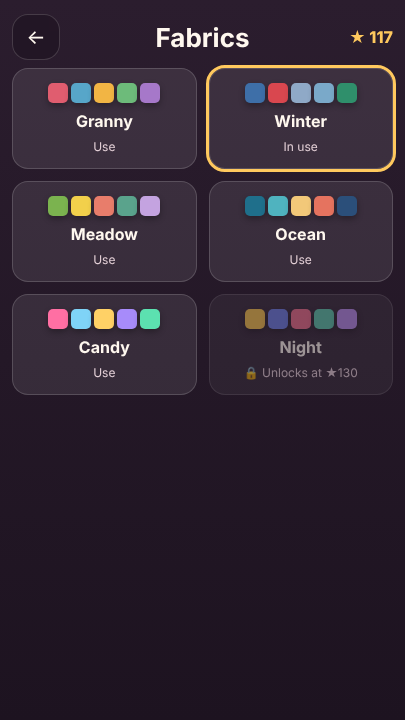
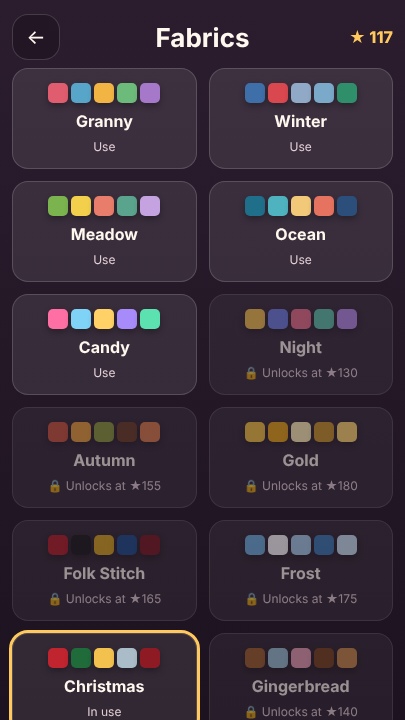
Cozy Quilt v1.3: materiale de sărbători Crăciun (100★) și Turtă dulce (140★) + Noutăți, teste v13
Claude-Session: https://claude.ai/code/session_01YQDvpnjDbHYKiAcLdt87yp

diff --git a/quilt/index.html b/quilt/index.html
@@ -114,14 +114,14 @@ h2{margin:0 0 12px;text-align:center;font-size:26px}
 
 <script>
 'use strict';
-const VERSION = '1.2';
+const VERSION = '1.3';
 // ---------- texte ----------
 const TX = {
-  ro: { sub: 'Coase pilote din petice: trage, rotește și întoarce bucățile de material până umplu tot modelul.', play: 'Joacă', cont: 'Continuă', daily: 'Pilota zilei', levels: 'Nivele', fabrics: 'Materiale', settings: 'Setări', sound: 'Sunete', music: 'Muzică', vibe: 'Vibrații', lang: 'Limba', keys: 'Tastatură', reset: 'Șterge progresul', on: 'Pornit', off: 'Oprit', erase: 'Șterge', sure: 'Apasă din nou ca să ștergi', rot: 'Rotește', flip: 'Întoarce', hint: 'Indiciu', level: 'Pilota', dailyT: 'Pilota zilei', w: ['Petice mici', 'Răsucite', 'Nasturi și forme', 'Oglinzi'], wsub: ['trage peticele la locul lor', 'atinge ca să rotești', 'modele cu nasturi cusuți', 'întoarce peticele pe dos'], done: 'Pilotă gata!', next: 'Următoarea', again: 'Din nou', stars: 'stele', hintsLeft: 'indicii', noHints: 'Nu mai ai indicii — termină o pilotă nouă ca să primești unul.', gotHint: '+1 indiciu', dailyDone: 'Pilota zilei e gata! Serie: ', streak: 'Serie', unlock: 'Se deblochează la', use: 'Folosește', used: 'Folosit', newFab: 'Material nou: ', locked: 'Termină pilota anterioară', timeT: 'Timp', best: 'Record', gift: 'Cadou zilnic: +2 indicii', news: 'Nou în v' + VERSION + ': 2 seturi noi de materiale, Ie (165★) și Ger (175★).',
+  ro: { sub: 'Coase pilote din petice: trage, rotește și întoarce bucățile de material până umplu tot modelul.', play: 'Joacă', cont: 'Continuă', daily: 'Pilota zilei', levels: 'Nivele', fabrics: 'Materiale', settings: 'Setări', sound: 'Sunete', music: 'Muzică', vibe: 'Vibrații', lang: 'Limba', keys: 'Tastatură', reset: 'Șterge progresul', on: 'Pornit', off: 'Oprit', erase: 'Șterge', sure: 'Apasă din nou ca să ștergi', rot: 'Rotește', flip: 'Întoarce', hint: 'Indiciu', level: 'Pilota', dailyT: 'Pilota zilei', w: ['Petice mici', 'Răsucite', 'Nasturi și forme', 'Oglinzi'], wsub: ['trage peticele la locul lor', 'atinge ca să rotești', 'modele cu nasturi cusuți', 'întoarce peticele pe dos'], done: 'Pilotă gata!', next: 'Următoarea', again: 'Din nou', stars: 'stele', hintsLeft: 'indicii', noHints: 'Nu mai ai indicii — termină o pilotă nouă ca să primești unul.', gotHint: '+1 indiciu', dailyDone: 'Pilota zilei e gata! Serie: ', streak: 'Serie', unlock: 'Se deblochează la', use: 'Folosește', used: 'Folosit', newFab: 'Material nou: ', locked: 'Termină pilota anterioară', timeT: 'Timp', best: 'Record', gift: 'Cadou zilnic: +2 indicii', news: 'Nou în v' + VERSION + ': 2 materiale de sărbători, Crăciun (100★) și Turtă dulce (140★).',
     tips: { drag: 'Trage un petic din coș pe pilotă. Umple toate pătratele!', hint: 'Blocat? 💡 Indiciul așază un petic la locul lui (pierzi o stea).', rotate: 'Atinge un petic ca să-l rotești (sau butonul ↻).', button: 'Pe nasturi nu se coase — ocolește-i!', flip: 'Unele petice sunt pe dos: ⇋ le întoarce în oglindă.' } },
-  en: { sub: 'Sew cozy quilts from patches: drag, turn and flip the fabric pieces until the whole pattern is filled.', play: 'Play', cont: 'Continue', daily: 'Daily Quilt', levels: 'Levels', fabrics: 'Fabrics', settings: 'Settings', sound: 'Sounds', music: 'Music', vibe: 'Vibration', lang: 'Language', keys: 'Keyboard', reset: 'Reset progress', on: 'On', off: 'Off', erase: 'Reset', sure: 'Tap again to erase', rot: 'Rotate', flip: 'Flip', hint: 'Hint', level: 'Quilt', dailyT: 'Daily Quilt', w: ['Little Patches', 'Twists', 'Buttons & Shapes', 'Mirrors'], wsub: ['drag patches into place', 'tap to rotate', 'patterns with sewn buttons', 'flip patches over'], done: 'Quilt done!', next: 'Next', again: 'Again', stars: 'stars', hintsLeft: 'hints', noHints: 'No hints left — finish a new quilt to earn one.', gotHint: '+1 hint', dailyDone: 'Daily Quilt done! Streak: ', streak: 'Streak', unlock: 'Unlocks at', use: 'Use', used: 'In use', newFab: 'New fabric: ', locked: 'Finish the previous quilt', timeT: 'Time', best: 'Best', gift: 'Daily gift: +2 hints', news: 'New in v' + VERSION + ': 2 new fabric sets, Folk Stitch (165★) and Frost (175★).',
+  en: { sub: 'Sew cozy quilts from patches: drag, turn and flip the fabric pieces until the whole pattern is filled.', play: 'Play', cont: 'Continue', daily: 'Daily Quilt', levels: 'Levels', fabrics: 'Fabrics', settings: 'Settings', sound: 'Sounds', music: 'Music', vibe: 'Vibration', lang: 'Language', keys: 'Keyboard', reset: 'Reset progress', on: 'On', off: 'Off', erase: 'Reset', sure: 'Tap again to erase', rot: 'Rotate', flip: 'Flip', hint: 'Hint', level: 'Quilt', dailyT: 'Daily Quilt', w: ['Little Patches', 'Twists', 'Buttons & Shapes', 'Mirrors'], wsub: ['drag patches into place', 'tap to rotate', 'patterns with sewn buttons', 'flip patches over'], done: 'Quilt done!', next: 'Next', again: 'Again', stars: 'stars', hintsLeft: 'hints', noHints: 'No hints left — finish a new quilt to earn one.', gotHint: '+1 hint', dailyDone: 'Daily Quilt done! Streak: ', streak: 'Streak', unlock: 'Unlocks at', use: 'Use', used: 'In use', newFab: 'New fabric: ', locked: 'Finish the previous quilt', timeT: 'Time', best: 'Best', gift: 'Daily gift: +2 hints', news: 'New in v' + VERSION + ': 2 holiday fabrics, Christmas (100★) and Gingerbread (140★).',
     tips: { drag: 'Drag a patch from the basket onto the quilt. Fill every square!', hint: 'Stuck? 💡 Hint places one patch for you (costs a star).', rotate: 'Tap a patch to rotate it (or press ↻).', button: 'You can’t sew over buttons — go around them!', flip: 'Some patches are upside down: ⇋ flips them over.' } },
-  ru: { sub: 'Шейте уютные одеяла из лоскутов: перетаскивайте, поворачивайте и переворачивайте кусочки ткани, пока узор не заполнится.', play: 'Играть', cont: 'Продолжить', daily: 'Одеяло дня', levels: 'Уровни', fabrics: 'Ткани', settings: 'Настройки', sound: 'Звуки', music: 'Музыка', vibe: 'Вибрация', lang: 'Язык', keys: 'Клавиатура', reset: 'Сбросить прогресс', on: 'Вкл', off: 'Выкл', erase: 'Сбросить', sure: 'Нажмите ещё раз', rot: 'Повернуть', flip: 'Отразить', hint: 'Подсказка', level: 'Одеяло', dailyT: 'Одеяло дня', w: ['Маленькие лоскуты', 'Повороты', 'Пуговицы и формы', 'Зеркала'], wsub: ['перетащите лоскуты на место', 'нажмите, чтобы повернуть', 'узоры с пуговицами', 'переворачивайте лоскуты'], done: 'Одеяло готово!', next: 'Дальше', again: 'Ещё раз', stars: 'звёзд', hintsLeft: 'подсказок', noHints: 'Подсказки закончились — пройдите новое одеяло.', gotHint: '+1 подсказка', dailyDone: 'Одеяло дня готово! Серия: ', streak: 'Серия', unlock: 'Откроется при', use: 'Выбрать', used: 'Выбрано', newFab: 'Новая ткань: ', locked: 'Пройдите предыдущее одеяло', timeT: 'Время', best: 'Рекорд', gift: 'Подарок дня: +2 подсказки', news: 'Новое в v' + VERSION + ': 2 новых набора тканей, «Вышивка» (165★) и «Мороз» (175★).',
+  ru: { sub: 'Шейте уютные одеяла из лоскутов: перетаскивайте, поворачивайте и переворачивайте кусочки ткани, пока узор не заполнится.', play: 'Играть', cont: 'Продолжить', daily: 'Одеяло дня', levels: 'Уровни', fabrics: 'Ткани', settings: 'Настройки', sound: 'Звуки', music: 'Музыка', vibe: 'Вибрация', lang: 'Язык', keys: 'Клавиатура', reset: 'Сбросить прогресс', on: 'Вкл', off: 'Выкл', erase: 'Сбросить', sure: 'Нажмите ещё раз', rot: 'Повернуть', flip: 'Отразить', hint: 'Подсказка', level: 'Одеяло', dailyT: 'Одеяло дня', w: ['Маленькие лоскуты', 'Повороты', 'Пуговицы и формы', 'Зеркала'], wsub: ['перетащите лоскуты на место', 'нажмите, чтобы повернуть', 'узоры с пуговицами', 'переворачивайте лоскуты'], done: 'Одеяло готово!', next: 'Дальше', again: 'Ещё раз', stars: 'звёзд', hintsLeft: 'подсказок', noHints: 'Подсказки закончились — пройдите новое одеяло.', gotHint: '+1 подсказка', dailyDone: 'Одеяло дня готово! Серия: ', streak: 'Серия', unlock: 'Откроется при', use: 'Выбрать', used: 'Выбрано', newFab: 'Новая ткань: ', locked: 'Пройдите предыдущее одеяло', timeT: 'Время', best: 'Рекорд', gift: 'Подарок дня: +2 подсказки', news: 'Новое в v' + VERSION + ': 2 праздничные ткани — «Рождество» (100★) и «Имбирный пряник» (140★).',
     tips: { drag: 'Перетащите лоскут из корзины на одеяло. Заполните все клетки!', hint: 'Застряли? 💡 Подсказка ставит один лоскут (минус звезда).', rotate: 'Нажмите на лоскут, чтобы повернуть (или ↻).', button: 'На пуговицах шить нельзя — обходите их!', flip: 'Некоторые лоскуты перевёрнуты: ⇋ отражает их.' } }
 };
 const LANGS = ['ro', 'en', 'ru'];
@@ -136,7 +136,9 @@ const FABRICS = [
   { id: 'autumn', name: { ro: 'Toamnă', en: 'Autumn', ru: 'Осень' }, need: 155, bg: '#f4e2c8', cells: '#e2c7a2', c: ['#c8553d', '#e9a03b', '#8a9a3c', '#6b3e26', '#d97b4a', '#b5651d', '#f2c14e', '#7d5a3c', '#a63d2a', '#9cae5a', '#e0884f', '#5e4a2e'] }, // v1.1
   { id: 'gold', name: { ro: 'Aur', en: 'Gold', ru: 'Золото' }, need: 180, bg: '#2b2416', cells: '#3d3320', c: ['#f5c542', '#e8a317', '#fff1b8', '#c9952b', '#ffd970', '#b8860b', '#f0d68a', '#d4a017', '#ffe599', '#a67c00', '#f7dc6f', '#e6be5a'] }, // v1.1
   { id: 'folk', name: { ro: 'Ie', en: 'Folk Stitch', ru: 'Вышивка' }, need: 165, bg: '#f6efe2', cells: '#e6dcc8', c: ['#b3202a', '#1c1c1c', '#d9a520', '#1f4e8c', '#7a1a22', '#3a3a3a', '#e05d4f', '#2e6b4f', '#c98a1a', '#5a2a5e', '#a83a2a', '#4a4a6a'] }, // v1.2
-  { id: 'frost', name: { ro: 'Ger', en: 'Frost', ru: 'Мороз' }, need: 175, bg: '#eaf3fa', cells: '#d2e3f0', c: ['#6fb1e0', '#ffffff', '#a8d0ec', '#3d7bb5', '#c9e4f5', '#8ec1e6', '#5a95c9', '#e3f1fb', '#9bb8d9', '#2f6aa3', '#b7d9f0', '#7fa8cf'] } // v1.2
+  { id: 'frost', name: { ro: 'Ger', en: 'Frost', ru: 'Мороз' }, need: 175, bg: '#eaf3fa', cells: '#d2e3f0', c: ['#6fb1e0', '#ffffff', '#a8d0ec', '#3d7bb5', '#c9e4f5', '#8ec1e6', '#5a95c9', '#e3f1fb', '#9bb8d9', '#2f6aa3', '#b7d9f0', '#7fa8cf'] }, // v1.2
+  { id: 'xmas', name: { ro: 'Crăciun', en: 'Christmas', ru: 'Рождество' }, need: 100, bg: '#f7ecdf', cells: '#e8d6c2', c: ['#c0242f', '#1f6b3a', '#f2c14e', '#a9bcc8', '#8e1b24', '#2f8a4f', '#e05d5d', '#14502a', '#d9a520', '#e89aa0', '#5aa86e', '#a8323c'] }, // v1.3
+  { id: 'ginger', name: { ro: 'Turtă dulce', en: 'Gingerbread', ru: 'Имбирный пряник' }, need: 140, bg: '#f3e6d6', cells: '#e0ccb3', c: ['#a0612f', '#9cc3d6', '#e8a0b4', '#7a4520', '#c98a4b', '#e2b35a', '#d0463c', '#5c3317', '#f2c890', '#8fc7a5', '#b5773f', '#c7a27a'] } // v1.3
 ];
 const PATS = ['dots', 'stripes', 'gingham', 'stars', 'flowers', 'zigzag', 'plain', 'hearts', 'diag', 'checks'];
 // ---------- rng ----------

diff --git a/quilt/tests/v13.js b/quilt/tests/v13.js
@@ -1,0 +1,59 @@
+// Teste Cozy Quilt v1.3 (materiale de sărbători Crăciun + Turtă dulce, Noutăți, migrare salvare): node quilt/tests/v13.js
+const { chromium } = require('playwright');
+const path = require('path');
+const URL = 'file://' + path.resolve(__dirname, '..', 'index.html');
+let fails = 0;
+const ok = (c, m) => { console.log((c ? 'PASS ' : 'FAIL ') + m); if (!c) fails++; };
+// salvare reală de v1.2 (material Ger, 20 de pilote, Noutăți v1.2 deja văzute)
+const OLD = { done: Array(20).fill(1), stars: Array(20).fill(3), best: [], fab: 9, lang: 'ro', snd: 1, mus: 0, vib: 1, tips: { drag: 1, hint: 1, rotate: 1 }, hints: 4, daily: 0, streak: 3, gift: 0, seen: '1.2' };
+(async () => {
+  const b = await chromium.launch(process.env.CHROME_PATH ? { executablePath: process.env.CHROME_PATH } : {});
+  const errs = [];
+  const page = async (locale, init) => {
+    const ctx = await b.newContext({ viewport: { width: 390, height: 844 }, locale });
+    if (init) await ctx.addInitScript(s => { if (!sessionStorage.getItem('x')) { localStorage.setItem('cozyquilt1', s); sessionStorage.setItem('x', 1); } }, JSON.stringify(init));
+    const p = await ctx.newPage();
+    p.on('pageerror', e => errs.push(e.message)); p.on('console', m => m.type() === 'error' && errs.push(m.text()));
+    await p.goto(URL); await p.waitForTimeout(400); return p;
+  };
+  // 1. date noi
+  let p = await page('ro-RO');
+  ok(await p.evaluate(() => VERSION === '1.3' && FABRICS.length === 12 && FABRICS[10].need === 100 && FABRICS[11].need === 140), 'v1.3: 12 materiale, Crăciun (100★) și Turtă dulce (140★)');
+  ok(await p.evaluate(() => FABRICS.every(f => ['ro', 'en', 'ru'].every(l => f.name[l]) && f.c.length === 12) && ['ro', 'en', 'ru'].every(l => TX[l].news.includes('1.3'))), 'v1.3: nume, 12 culori și Noutăți în RO/EN/RU');
+  ok(await p.evaluate(() => FABRICS.every(f => f.need <= 180) && new Set(FABRICS.map(f => f.id)).size === FABRICS.length), 'v1.3: toate materialele se pot debloca, id-uri unice');
+  ok(await p.evaluate(() => document.getElementById('news').textContent.includes('Crăciun')), 'v1.3: instalare nouă — Noutăți apare în meniu (RO)');
+  await p.context().close();
+  // 2. migrare salvare v1.2
+  p = await page('ro-RO', OLD);
+  ok(await p.evaluate(() => S.fab === 9 && totalStars() === 60 && S.streak === 3 && S.hints >= 4 && S.mus === 0), 'migrare v1.2: materialul Ger, 60★, seria, indiciile și setările rămân');
+  ok(await p.evaluate(() => document.getElementById('news').textContent.includes('1.3')), 'migrare v1.2: Noutăți v1.3 apare');
+  await p.click('#bFabrics'); await p.waitForTimeout(150);
+  ok(await p.$$eval('.fb', e => e.length) === 12, 'ecranul Materiale arată 12 seturi');
+  await p.click('.fb:nth-child(11)'); ok(await p.evaluate(() => S.fab === 9), 'Crăciun e blocat sub 100★');
+  await p.evaluate(() => { S.stars = Array(34).fill(3); renderFabrics(); }); await p.click('.fb:nth-child(11)');
+  ok(await p.evaluate(() => S.fab === 10), 'cu 102★ se alege Crăciun');
+  await p.click('.fb:nth-child(12)'); ok(await p.evaluate(() => S.fab === 10), 'Turtă dulce e blocată sub 140★');
+  await p.evaluate(() => { S.stars = Array(47).fill(3); renderFabrics(); }); await p.click('.fb:nth-child(12)');
+  ok(await p.evaluate(() => S.fab === 11), 'cu 141★ se alege Turtă dulce');
+  // joc cu materialul nou: se poate termina
+  await p.evaluate(() => { toMenu(); startLevel(5); solveAll(); }); await p.waitForTimeout(1700);
+  ok(await p.evaluate(() => S.done[5] === 1 && document.getElementById('win').classList.contains('on')), 'o pilotă se termină cu materialul Turtă dulce');
+  // 3. Noutăți o singură dată
+  await p.evaluate(() => toMenu()); await p.click('#bPlay'); await p.waitForTimeout(200);
+  ok(await p.evaluate(() => S.seen === '1.3'), 'Joacă marchează Noutăți ca văzute');
+  await p.reload(); await p.waitForTimeout(400);
+  ok(await p.evaluate(() => document.getElementById('news').textContent === '' && S.fab === 11), 'după reîncărcare Noutăți nu mai apare, materialul rămâne');
+  await p.context().close();
+  // 4. EN / RU
+  for (const [loc, word] of [['en-US', 'Gingerbread'], ['ru-RU', 'Рождество']]) {
+    p = await page(loc);
+    ok(await p.evaluate(w => document.getElementById('news').textContent.includes(w), word), 'Noutăți în ' + loc + ': ' + word);
+    await p.click('#bFabrics'); await p.waitForTimeout(150);
+    ok(await p.$eval('.fb:nth-child(12) b', e => e.textContent.length > 3), 'numele materialului nou în ' + loc);
+    await p.context().close();
+  }
+  ok(errs.length === 0, 'fără erori JS ' + errs.join(' | '));
+  await b.close();
+  console.log(fails ? `\n${fails} teste au eșuat` : '\nToate testele au trecut');
+  process.exit(fails ? 1 : 0);
+})();

diff --git a/quilt/tests/run.js b/quilt/tests/run.js
@@ -124,8 +124,8 @@ async function fresh(b, locale = 'ro-RO', vp = { width: 390, height: 844 }, ctxO
   ok(await p.$eval('.lv.cur', e => e.dataset.lv) === '3', 'următoarea pilotă e evidențiată');
   await p.click('.lv[data-lv="10"]'); ok(await p.evaluate(() => mode !== 'game') && await p.$eval('#toast', e => e.classList.contains('on')), 'pilotele blocate nu pornesc');
   await p.click('[data-back]'); await p.click('#bFabrics'); await p.waitForTimeout(100);
-  ok(await p.$$eval('.fb', e => e.length) === 10, '10 seturi de materiale (v1.2: Ie, Ger)');
-  ok(await p.evaluate(() => VERSION === '1.2' && FABRICS[8].need === 165 && FABRICS[9].need === 175 && T.news.includes('175')), 'v1.2: materialele Ie (165★) și Ger (175★), mesaj Noutăți');
+  ok(await p.$$eval('.fb', e => e.length) >= 10, '>= 10 seturi de materiale (v1.2: Ie, Ger)');
+  ok(await p.evaluate(() => VERSION >= '1.2' && FABRICS[8].need === 165 && FABRICS[9].need === 175 && T.news.includes(VERSION)), 'v1.2: materialele Ie (165★) și Ger (175★), mesaj Noutăți');
   ok(await p.evaluate(() => FABRICS[6].need === 155 && FABRICS[7].need === 180 ), 'v1.1: materialele Toamnă (155★) și Aur (180★), mesaj Noutăți');
   await p.click('.fb:nth-child(2)'); ok(await p.evaluate(() => S.fab === 0), 'materialul blocat nu se poate alege');
   await p.evaluate(() => { S.stars = new Array(15).fill(3); renderFabrics(); }); await p.click('.fb:nth-child(3)');

diff --git a/quilt/tools/shots.js b/quilt/tools/shots.js
@@ -20,12 +20,12 @@ const partial = (lv, fab, frac, dragIt = true) => ALL + `S.fab=${fab};patCache={
   };
   const M = { width: 405, height: 720 };
   await shot('menu-mobile-en.png', M, 'en-US', ALL + 'save();menuInfo();', 1500);
-  await shot('game-patches-en.png', M, 'en-US', partial(12, 0, 0.5));
+  await shot('game-patches-en.png', M, 'en-US', partial(12, 10, 0.5));
   await shot('game-heart-en.png', M, 'en-US', partial(16 + 14, 1, 0.55));
   await shot('game-mirror-ru.png', M, 'ru-RU', partial(55, 4, 0.45));
   await shot('win-mobile-ro.png', M, 'ro-RO', ALL + 'S.fab=2;patCache={};startLevel(22);G.t0-=83000;S.best[22]=71.4;solveAll();', 2200);
   await shot('levels-mobile-en.png', M, 'en-US', ALL + "save();renderLevels();show('levels');");
-  await shot('fabrics-mobile-en.png', M, 'en-US', ALL + "S.fab=1;save();renderFabrics();show('fabrics');");
+  await shot('fabrics-mobile-en.png', M, 'en-US', ALL + "S.fab=10;save();renderFabrics();show('fabrics');");
   await shot('game-desktop-en.png', { width: 1280, height: 720 }, 'en-US', partial(47, 5, 0.5));
   // coperți: 3 pilote terminate, înclinate + titlu
   const quilt = async (lv, fab) => {

diff --git a/quilt/README.md b/quilt/README.md
@@ -5,8 +5,18 @@ Puzzle original cu petice de material. Tragi peticele din coș pe pilotă până
 - 60 de pilote în 4 lumi: Petice mici (doar tragi), Răsucite (atingi ca să rotești), Nasturi și forme (inimă, casă, om de zăpadă, brad, coroană, mănușă, fluture; pe nasturi nu se coase), Oglinzi (⇋ întoarce peticele pe dos).
 - Fiecare pilotă e generată determinist dintr-o tăietură garantat rezolvabilă; Pilota zilei e aceeași pentru toți în aceeași zi, cu serie 🔥.
 - Tutorial cu mână animată, sfat la prima apariție a fiecărei mecanici, indicii 💡 (3 stele fără indicii), cadou zilnic +2 indicii.
-- 6 seturi de materiale deblocate cu stele, 10 modele de țesătură, cusături, confetti cu inimioare, sunete și muzică sintetizate, vibrații.
+- 12 seturi de materiale deblocate cu stele (v1.3: Crăciun și Turtă dulce), 10 modele de țesătură, cusături, confetti cu inimioare, sunete și muzică sintetizate, vibrații.
 - RO/EN/RU, mobil + desktop, tastatură (R rotește, F întoarce, H indiciu, Tab alege peticul, Esc). Fără reclame, fără date personale.
 
-Teste: `CHROME_PATH=/opt/pw-browsers/chromium node quilt/tests/run.js` (59 de teste: toate pilotele rezolvabile cu uneltele disponibile, drag real cu mouse-ul, atingere, așezare pe 4 ecrane).
+Teste: `CHROME_PATH=/opt/pw-browsers/chromium node quilt/tests/run.js` (62 de teste: toate pilotele rezolvabile cu uneltele disponibile, drag real cu mouse-ul, atingere, așezare pe 4 ecrane).
 Capturi și coperți: `node quilt/tools/shots.js` → `quilt/launch/` (zip pentru itch: `cozy-quilt-web.zip`).
+
+## Update v1.3
+
+Teste noi: `node quilt/tests/v13.js` (19: materiale noi, migrarea unei salvări v1.2, Noutăți o singură dată, RO/EN/RU, zero erori JS).
+
+**EN (What's new):** Holiday update! Two festive fabric sets join the basket: Christmas (unlocks at 100★) and Gingerbread (140★). Your progress and chosen fabric carry over.
+
+**RO (Noutăți):** Actualizare de sărbători! Două seturi noi de materiale: Crăciun (se deblochează la 100★) și Turtă dulce (140★). Progresul și materialul ales rămân neschimbate.
+
+**RU (Что нового):** Праздничное обновление! Два новых набора тканей: «Рождество» (открывается при 100★) и «Имбирный пряник» (140★). Ваш прогресс и выбранная ткань сохраняются.
